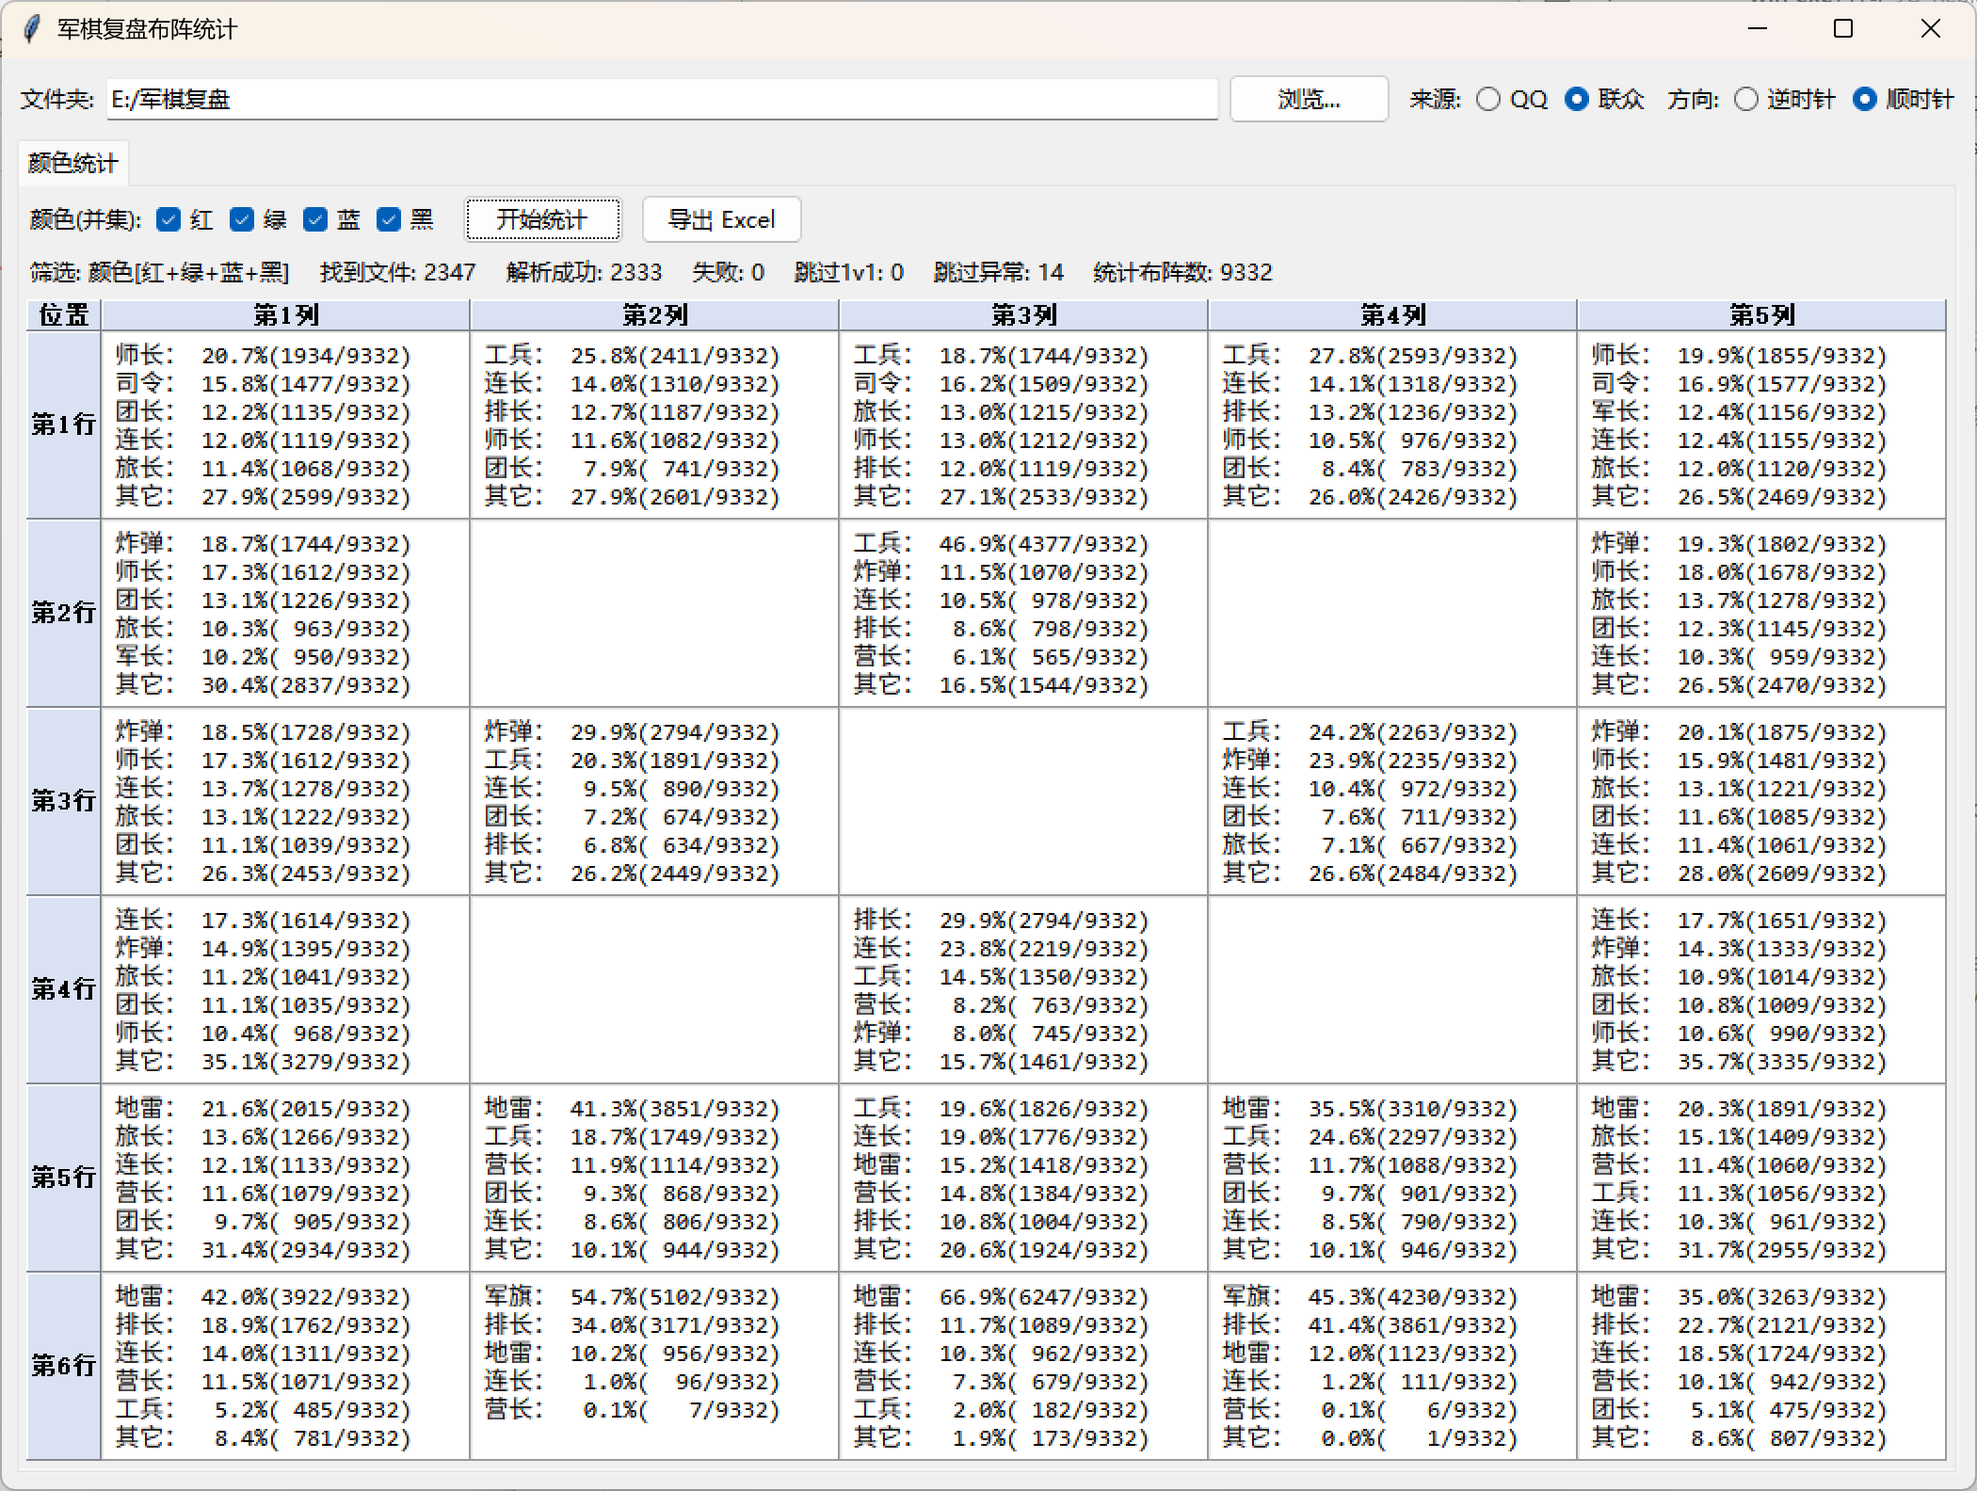
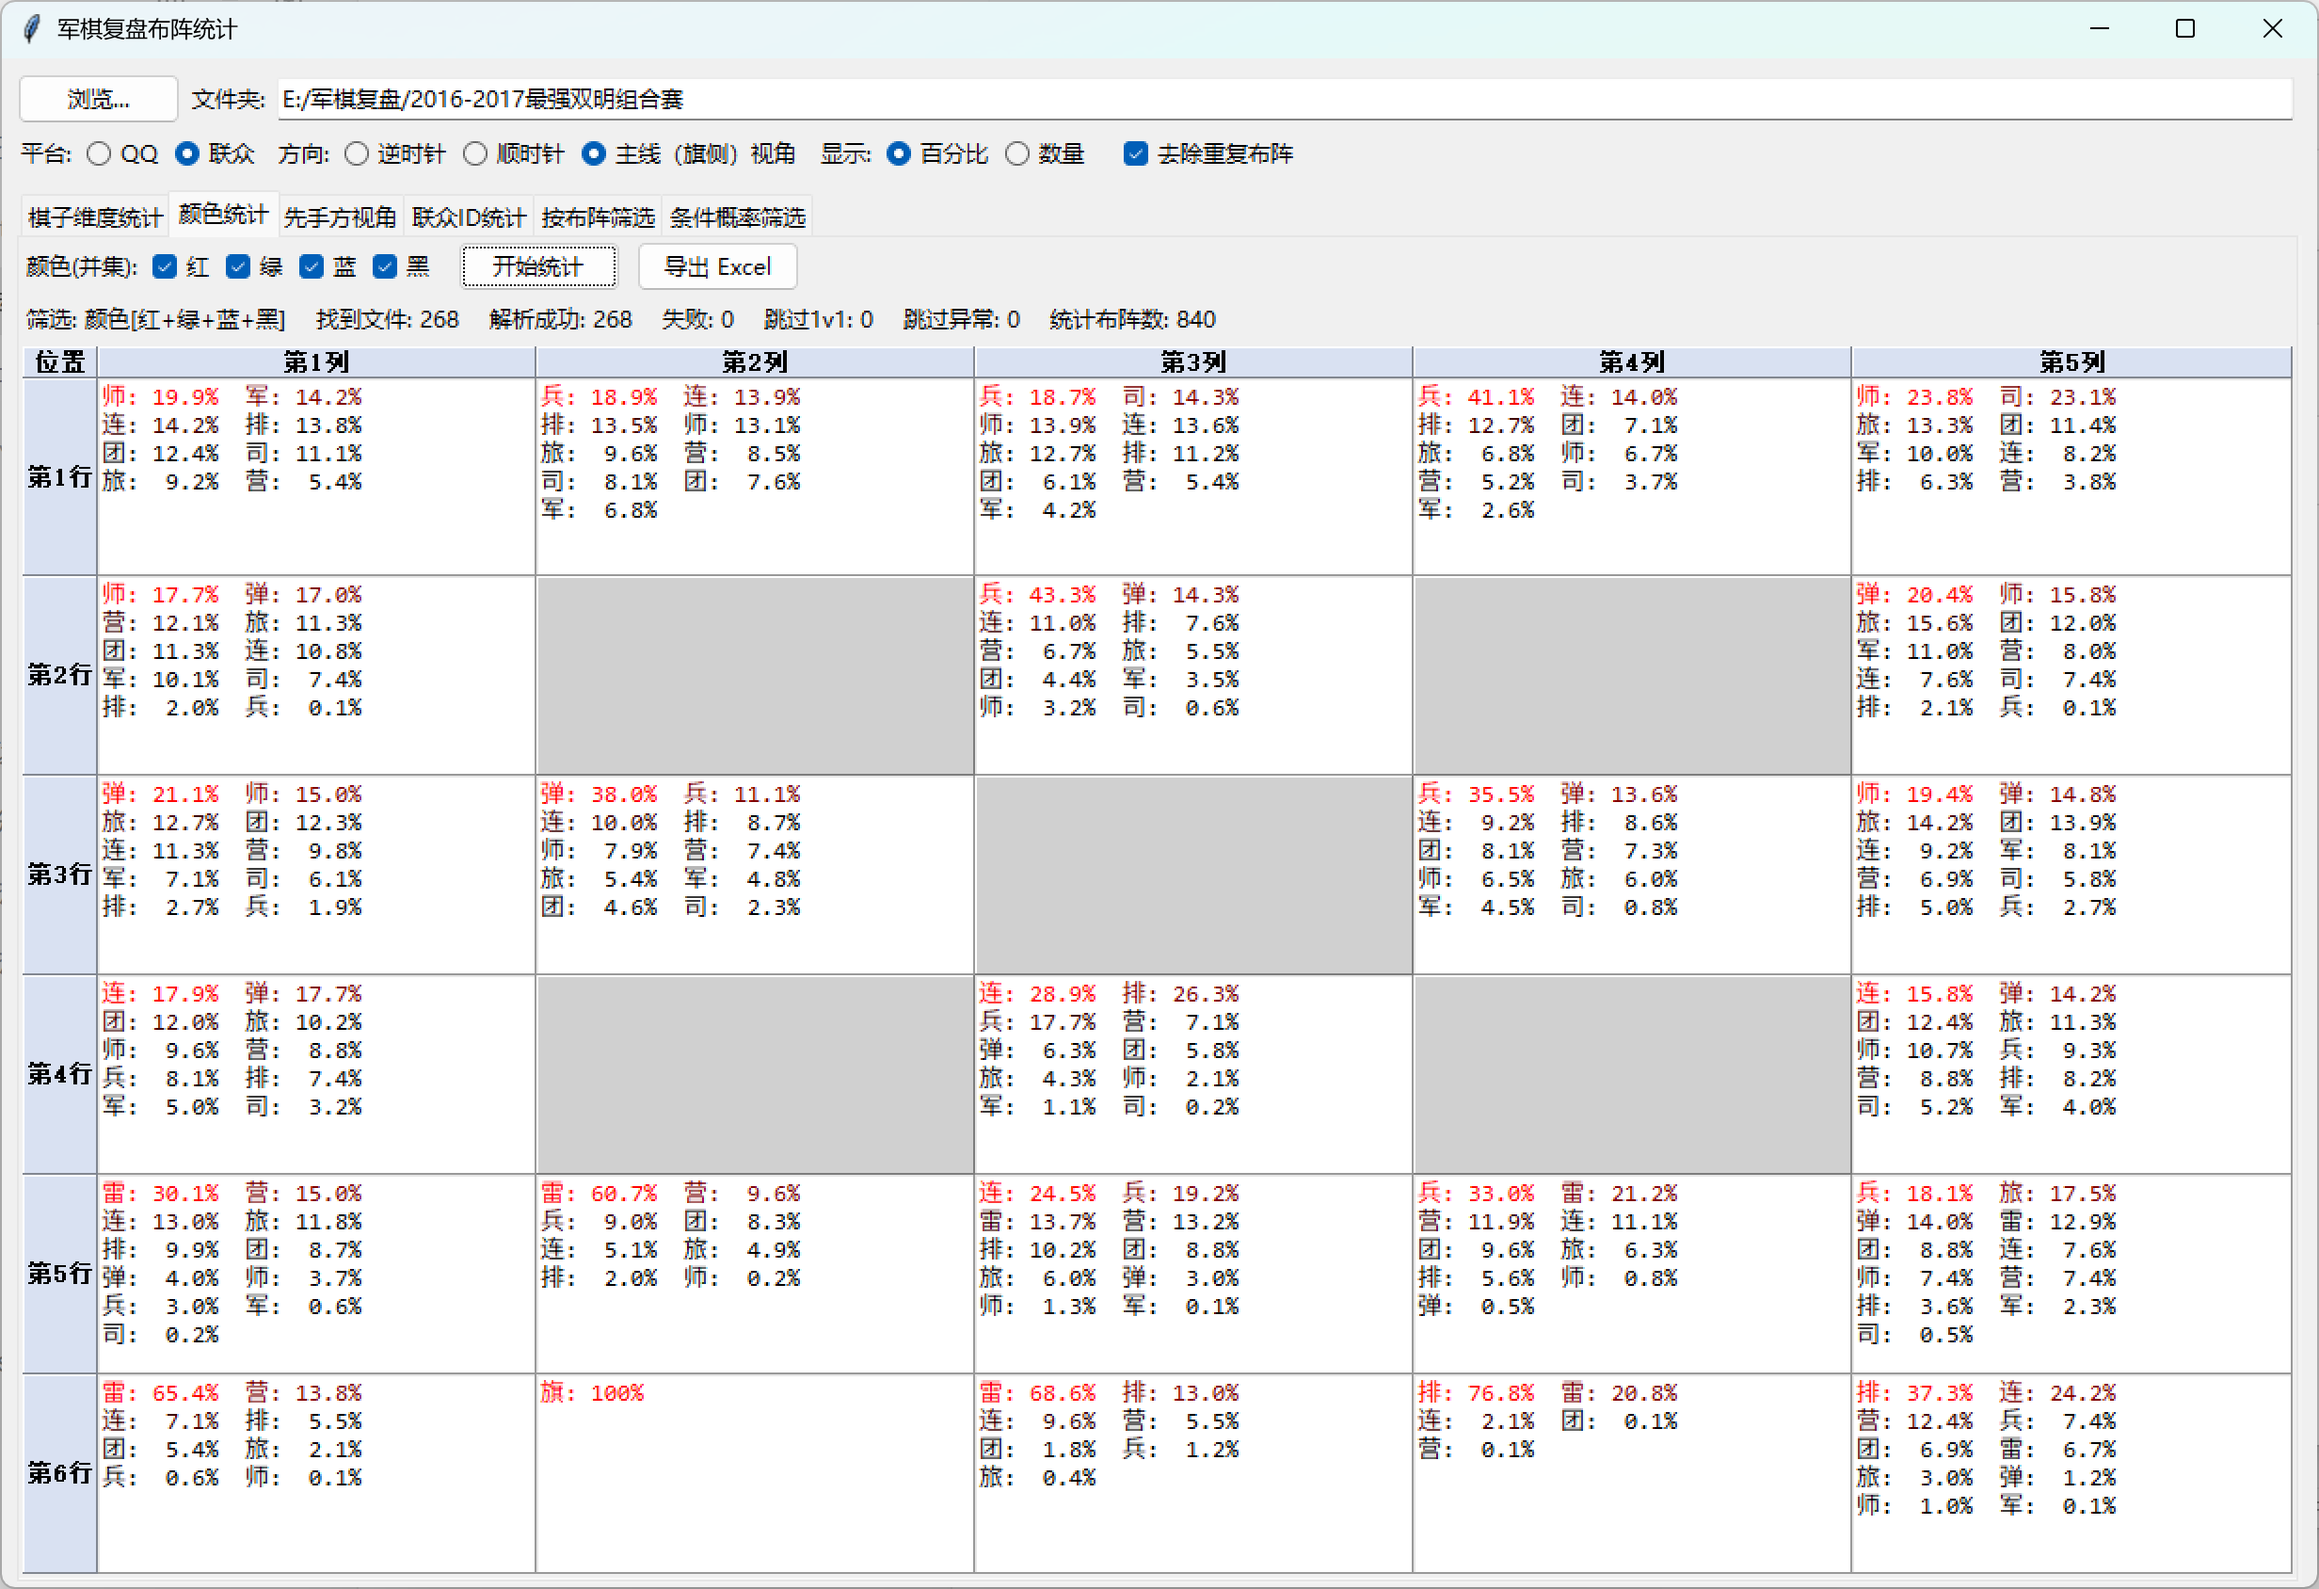
docs: update README - add conditional_filter and layout_filter screenshots, update baidu link

diff --git a/README.md b/README.md
@@ -2,9 +2,19 @@
 
 [github下载地址](https://github.com/math-yyj/JQ_Replay_Stat/releases/tag/v0.2.3)
 
-[百度网盘分流下载地址](https://pan.baidu.com/s/1XxGJvJ9cNlvocG7aJ5BXuA?pwd=ia3i)
+[百度网盘分流下载地址](https://pan.baidu.com/s/1l7ONXQTezOhxzpIPrCWM_w?pwd=zymy)
 
 感谢 [@windsgo](https://github.com/windsgo) 的[先行工作](https://github.com/windsgo/myjgs)！
+
+## 运行效果
+
+![qq](docs/images/qq.png)
+
+![lianzhong](docs/images/lianzhong.png)
+
+![conditional_filter](docs/images/conditional_filter.png)
+
+![layout_filter](docs/images/layout_filter.png)
 
 ## 已支持功能
 
@@ -108,12 +118,6 @@ QQ复盘布阵校验规则：
 
 ## 待实现
 
-* [ ] 按照条件筛选和导出对局文件
 * [ ] QQ复盘文件对局全内容解析
 * [ ] 联众复盘文件对局全内容解析
 
-## 运行效果
-
-![qq](docs/images/qq.png)
-
-![lianzhong](docs/images/lianzhong.png)
